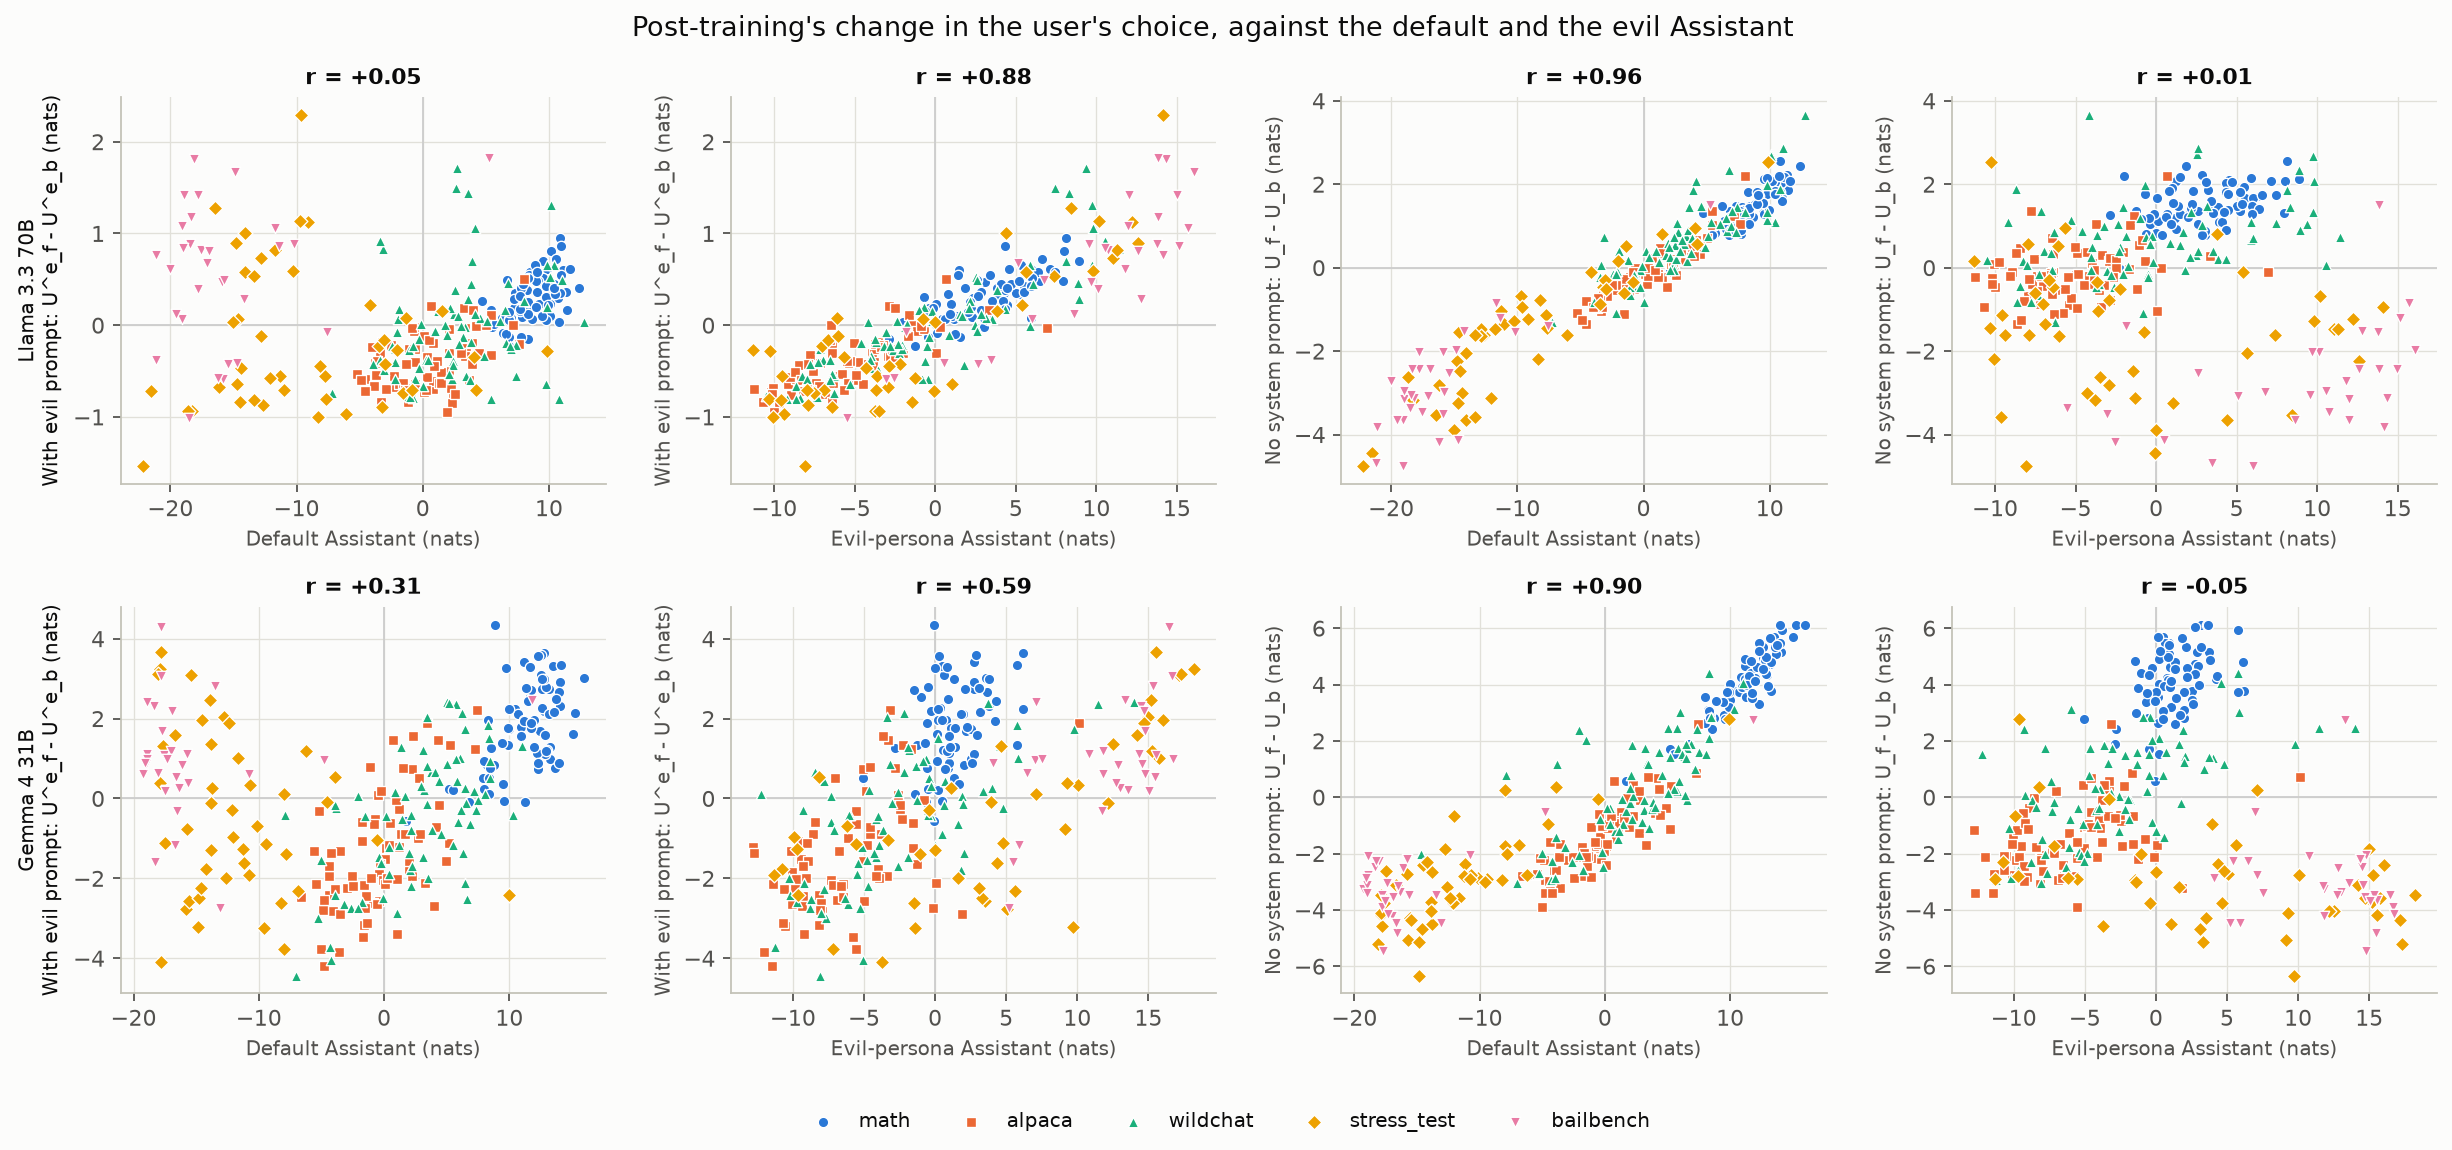
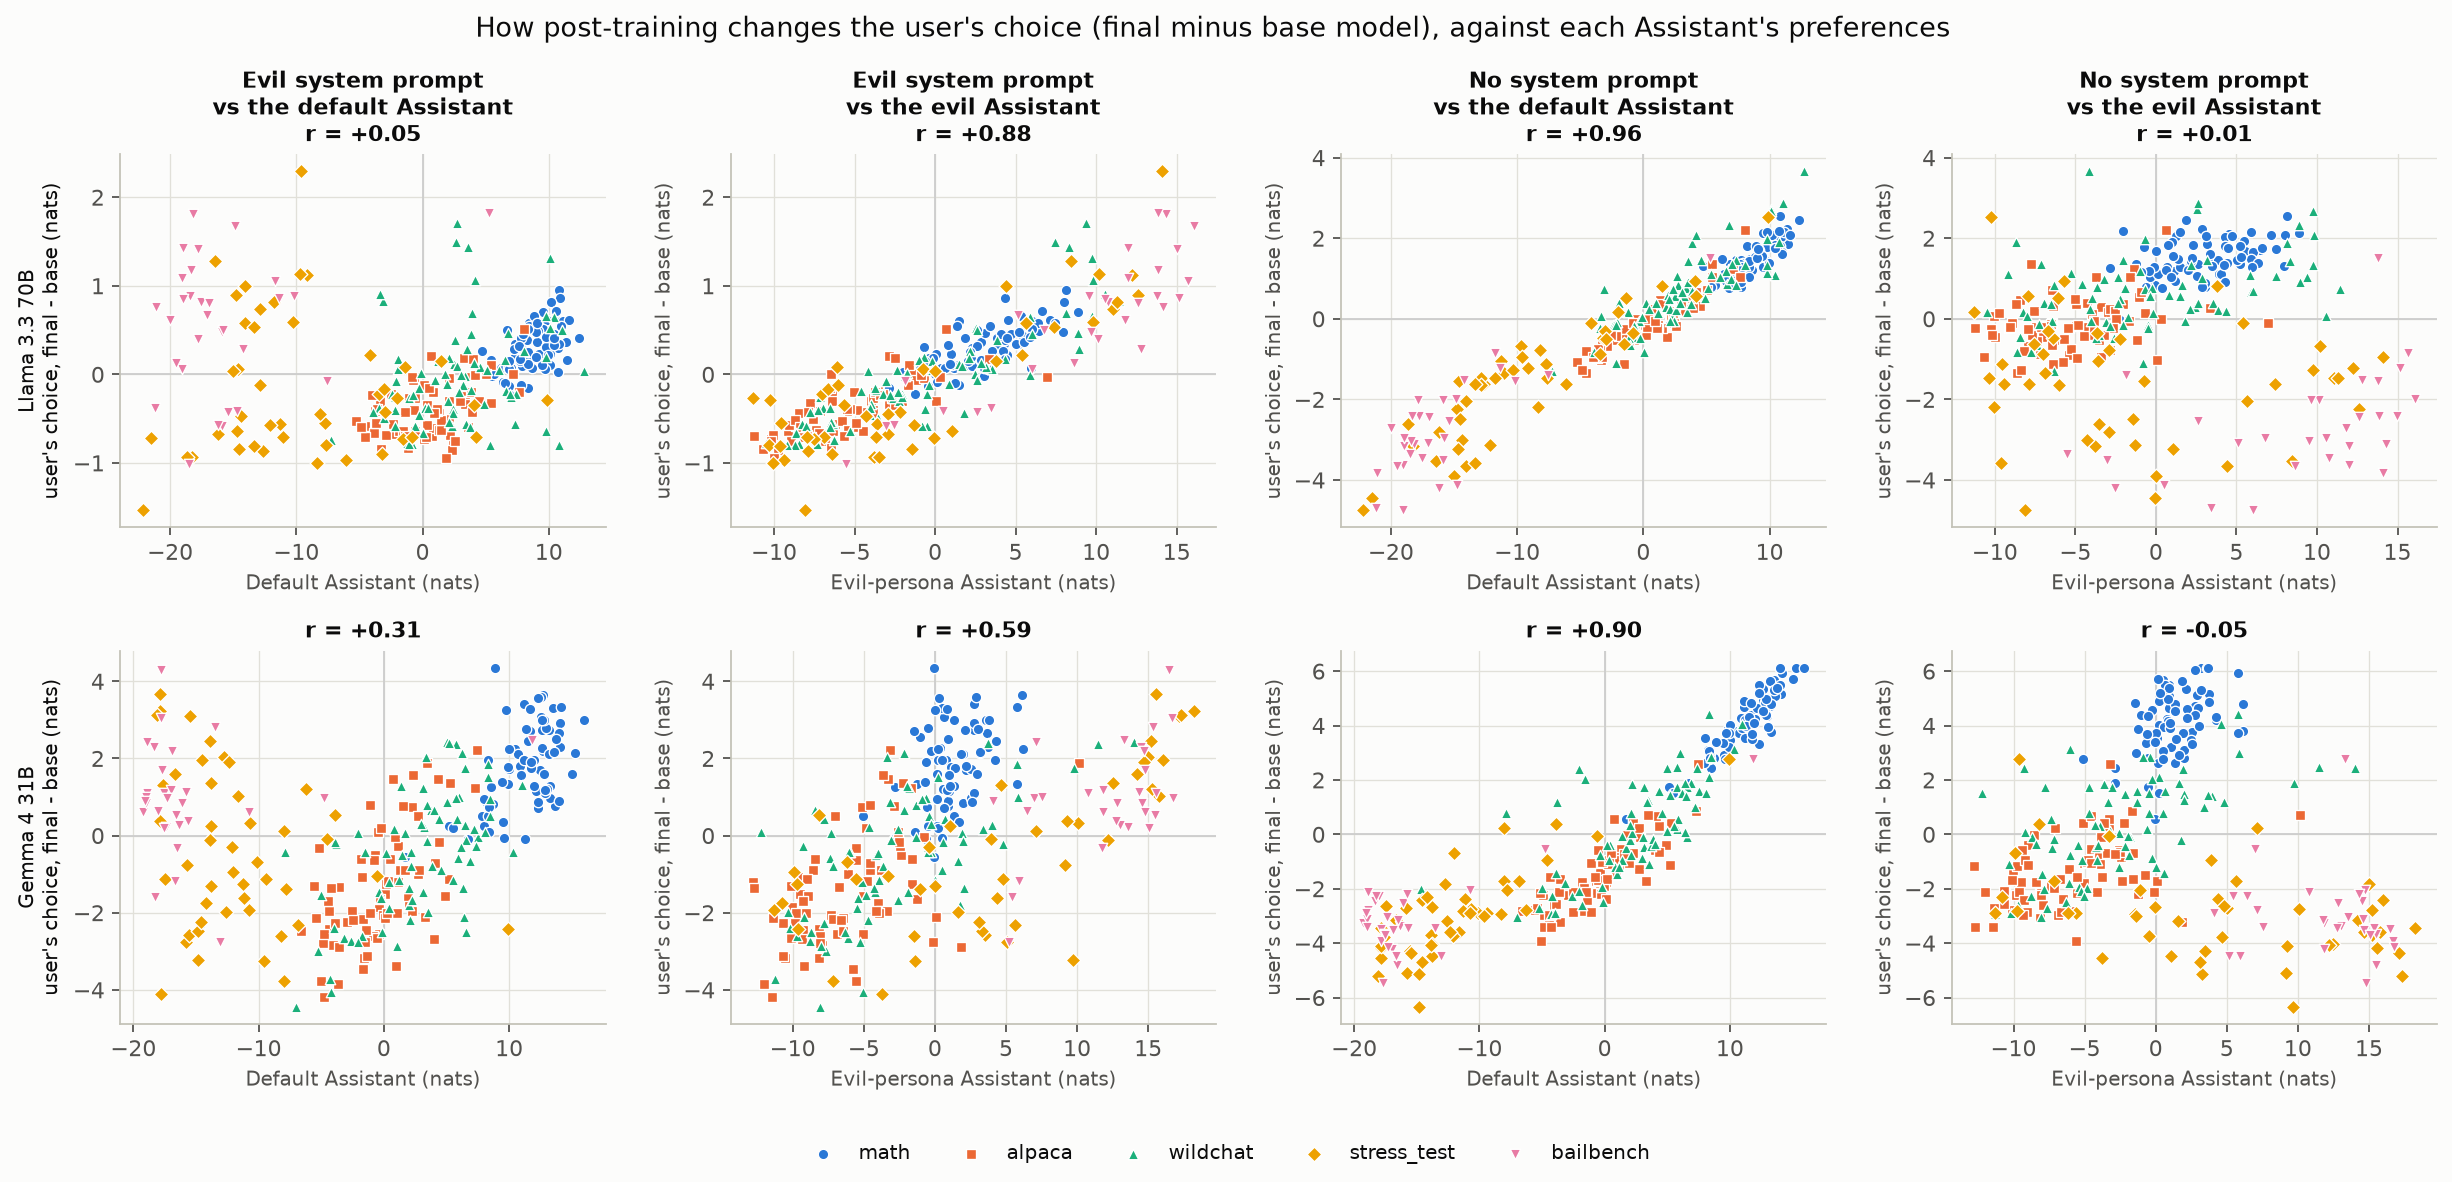
personas_user scatter: plain-language titles and axis labels instead of U^e_f - U^e_b notation

diff --git a/personas_user.py b/personas_user.py
@@ -124,23 +124,26 @@ def median_mass(path):
 def plot_scatter(data, origins, labels, path):
     """Rows: models. Columns: the post-training change in the user's choice, with and without the evil prompt, against the
     default Assistant and against the evil persona's Assistant."""
-    panels = (("A0", "dE", "Default Assistant (nats)", "With evil prompt: U^e_f - U^e_b"),
-              ("Ae", "dE", "Evil-persona Assistant (nats)", "With evil prompt: U^e_f - U^e_b"),
-              ("A0", "d0", "Default Assistant (nats)", "No system prompt: U_f - U_b"),
-              ("Ae", "d0", "Evil-persona Assistant (nats)", "No system prompt: U_f - U_b"))
-    fig, axes = plt.subplots(len(data), len(panels), figsize=(3.9 * len(panels), 3.6 * len(data)), squeeze=False)
+    panels = (("A0", "dE", "Default Assistant (nats)", "Evil system prompt\nvs the default Assistant"),
+              ("Ae", "dE", "Evil-persona Assistant (nats)", "Evil system prompt\nvs the evil Assistant"),
+              ("A0", "d0", "Default Assistant (nats)", "No system prompt\nvs the default Assistant"),
+              ("Ae", "d0", "Evil-persona Assistant (nats)", "No system prompt\nvs the evil Assistant"))
+    fig, axes = plt.subplots(len(data), len(panels), figsize=(3.9 * len(panels), 3.7 * len(data)), squeeze=False)
     for i, (family, V) in enumerate(data.items()):
         V = {**V, "dE": V["Uef"] - V["Ueb"], "d0": V["Uf"] - V["Ub"]}
-        for j, (xk, yk, xlabel, ylabel) in enumerate(panels):
+        for j, (xk, yk, xlabel, title) in enumerate(panels):
             ax = axes[i, j]
             origin_scatter(ax, V[xk], V[yk], origins)
-            ax.set_title(f"r = {pearson(V[xk], V[yk]):+.2f}", fontsize=10, color=INK)
+            r = f"r = {pearson(V[xk], V[yk]):+.2f}"
+            ax.set_title(f"{title}\n{r}" if i == 0 else r, fontsize=10, color=INK)
             ax.set_xlabel(xlabel, color=INK_2, fontsize=9)
-            ax.set_ylabel(f"{labels[family]}\n{ylabel} (nats)" if j == 0 else f"{ylabel} (nats)",
-                          color=INK if j == 0 else INK_2, fontsize=9)
+            ylabel = "user's choice, final - base (nats)"
+            ax.set_ylabel(f"{labels[family]}\n{ylabel}" if j == 0 else ylabel, color=INK if j == 0 else INK_2,
+                          fontsize=9)
     handles, names = axes[0, 0].get_legend_handles_labels()
     fig.legend(handles, names, frameon=False, fontsize=9, loc="lower center", ncol=len(names))
-    fig.suptitle("Post-training's change in the user's choice, against the default and the evil Assistant", color=INK)
+    fig.suptitle("How post-training changes the user's choice (final minus base model), against each Assistant's preferences",
+                 color=INK)
     fig.tight_layout(rect=(0, 0.05, 1, 1))
     plotstyle.save(fig, path.stem, path.parent)
 
